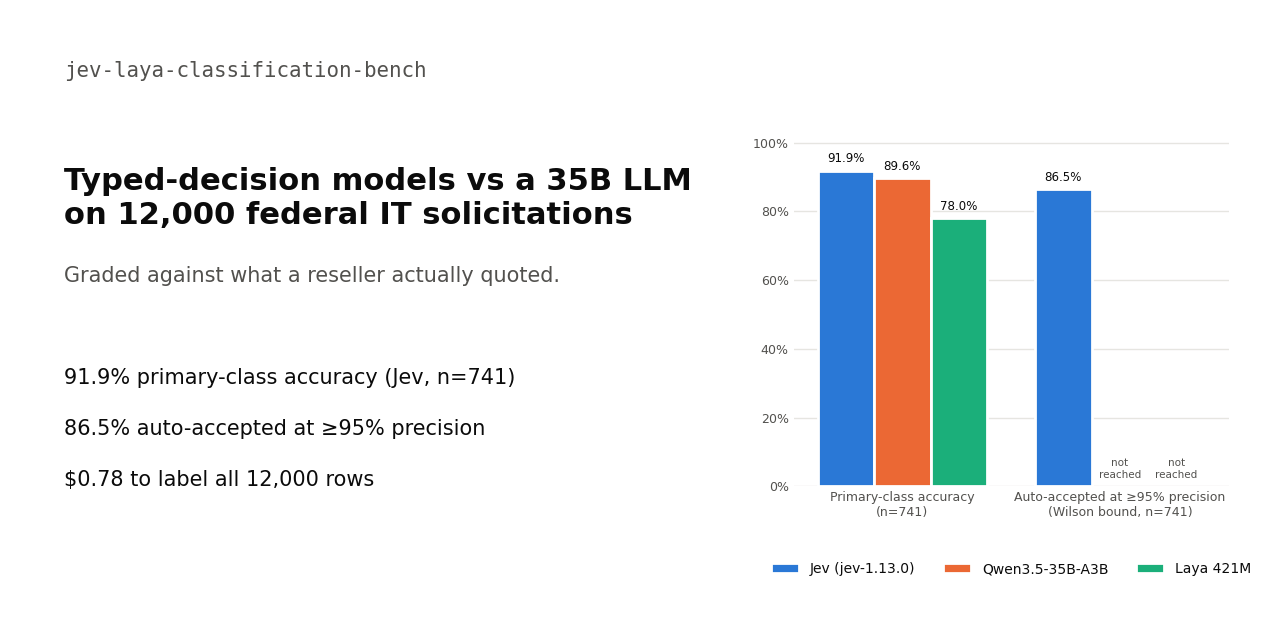
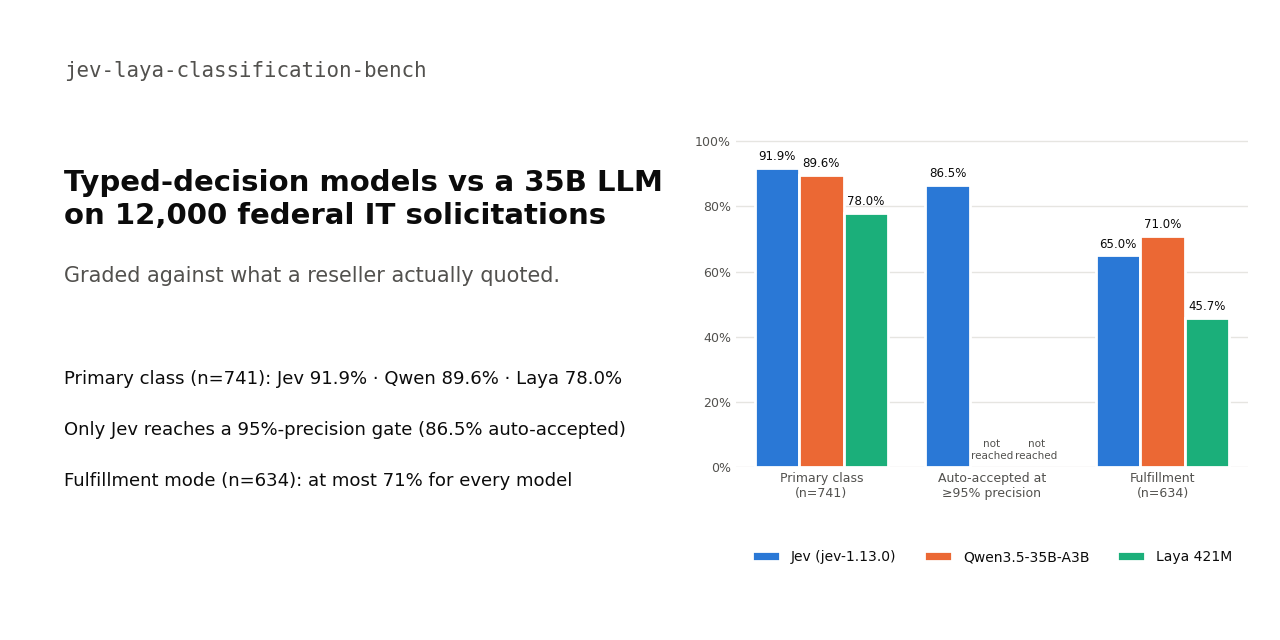
docs: correct Wilson-cutoff, flag-rate and agreement wording; balanced social card; drop HF configs glob

diff --git a/figures/make_figures.py b/figures/make_figures.py
@@ -26,7 +26,6 @@ CLASSES = ["Hardware", "Software", "Maintenance & Support", "Services",
            "Installation & Integration", "Furniture / Facilities", "Other"]
 SHORT = ["Hardware", "Software", "Maint. & Support", "Services", "Install. & Integ.", "Furniture", "Other"]
 MIN_CURVE_N = 20         # curve points below this many accepted rows are noise (Laya's first point is n=1)
-JEV_COST_12K = "$0.78"   # results/e5-cost.md: Jev list price for all 12,000 rows
 THEMES = {
     "light": {"surface": "#ffffff", "text": "#0b0b0b", "muted": "#52514e", "grid": "#e6e5e1",
               "jev": "#2a78d6", "qwen": "#eb6834", "laya": "#1baf7a",
@@ -250,21 +249,23 @@ def gate(t, e2, e1):
 
 def social_preview(e2, out):
     t = THEMES["light"]
-    v = hero_values(e2)["jev"]
-    n = paired(e2, "jev", "primary_vs_quote_gold")["n"]
+    v = hero_values(e2)
+    n_p = paired(e2, "jev", "primary_vs_quote_gold")["n"]
+    n_f = paired(e2, "jev", "fulfillment_vs_quote_gold")["n"]
     fig = plt.figure(figsize=(12.8, 6.4), dpi=100, facecolor=t["surface"])
     fig.text(0.05, 0.88, "jev-laya-classification-bench", fontsize=15, color=t["muted"], family="monospace")
     fig.text(0.05, 0.64, "Typed-decision models vs a 35B LLM\non 12,000 federal IT solicitations",
-             fontsize=22, fontweight="bold", color=t["text"], va="bottom", linespacing=1.25)
+             fontsize=21, fontweight="bold", color=t["text"], va="bottom", linespacing=1.25)
     fig.text(0.05, 0.56, "Graded against what a reseller actually quoted.", fontsize=15, color=t["muted"])
-    for i, line in enumerate([f"{v[0]:.1%} primary-class accuracy (Jev, n={n})",
-                              f"{v[1]:.1%} auto-accepted at ≥95% precision",
-                              f"{JEV_COST_12K} to label all 12,000 rows"]):
-        fig.text(0.05, 0.40 - i * 0.08, line, fontsize=15, color=t["text"])
-    ax = fig.add_axes([0.62, 0.24, 0.34, 0.58])
-    draw_hero(ax, t, e2, groups=2)
+    for i, line in enumerate([f"Primary class (n={n_p}): Jev {v['jev'][0]:.1%} · Qwen {v['qwen'][0]:.1%} · Laya {v['laya'][0]:.1%}",
+                              f"Only Jev reaches a 95%-precision gate ({v['jev'][1]:.1%} auto-accepted)",
+                              f"Fulfillment mode (n={n_f}): at most {max(x[2] for x in v.values()):.0%} for every model"]):
+        fig.text(0.05, 0.40 - i * 0.08, line, fontsize=13, color=t["text"])
+    ax = fig.add_axes([0.575, 0.27, 0.40, 0.55])
+    draw_hero(ax, t, e2)
+    ax.set_xticks(range(3), [f"Primary class\n(n={n_p})", "Auto-accepted at\n≥95% precision", f"Fulfillment\n(n={n_f})"])
     ax.legend(frameon=False, labelcolor=t["text"], fontsize=10, loc="upper center",
-              bbox_to_anchor=(0.5, -0.17), ncol=3)
+              bbox_to_anchor=(0.5, -0.2), ncol=3)
     path = Path(out) / "social_preview.png"
     fig.savefig(path, dpi=100, facecolor=t["surface"])
     plt.close(fig)

diff --git a/README.md b/README.md
@@ -42,10 +42,10 @@ Every number: [`results/e2-full/metrics.json`](results/e2-full/metrics.json), ke
 
 <picture>
   <source media="(prefers-color-scheme: dark)" srcset="docs/figures/precision_coverage-dark.png">
-  <img alt="Precision versus coverage curves. Jev stays above the 95% precision line up to 86.5% coverage at cutoff 0.94. Qwen's three confidence buckets sit near 90%. Laya stays below 95% at every depth." src="docs/figures/precision_coverage-light.png">
+  <img alt="Precision versus coverage curves. Jev's Wilson lower bound stays at or above 95% from cutoff 1.0 down to 0.94, where 86.5% of rows are auto-accepted. Qwen's three confidence buckets sit near 90%. Laya's Wilson bound never reaches 95%." src="docs/figures/precision_coverage-light.png">
 </picture>
 
-Jev's confidence is calibrated (ECE 0.049). At a cutoff of 0.94 it accepts 86.5% of rows with observed precision 96.7%, and the Wilson 95% lower bound stays above 95% along the whole curve. Qwen reports three confidence levels by prompt design; its "high" bucket covers 97.8% of rows at 90.1% precision, so no bucket reaches 95%. Laya's precision never clears the bound at any depth.
+Jev's confidence is calibrated (ECE 0.049). At a cutoff of 0.94 it accepts 86.5% of rows with observed precision 96.7%, and the Wilson 95% lower bound stays at or above 95% at every cutoff from 1.0 down to 0.94. Qwen reports three confidence levels by prompt design; its "high" bucket covers 97.8% of rows at 90.1% precision, so no bucket reaches 95%. Laya's precision never clears the bound at any depth.
 
 ### 2. Prompt variants did not move accuracy
 
@@ -69,10 +69,10 @@ Telling distributor catalog SKUs ("à la carte") from OEM-configured builds tops
 
 <picture>
   <source media="(prefers-color-scheme: dark)" srcset="docs/figures/agreement-dark.png">
-  <img alt="Confusion matrix of Jev versus Qwen primary class over 11,931 rows. Most mass is on the diagonal. The largest off-diagonal cells are Jev Hardware versus Qwen Other (155), Jev Software versus Qwen Maintenance and Support (80), and Jev Maintenance and Support versus Qwen Software (107)." src="docs/figures/agreement-light.png">
+  <img alt="Confusion matrix of Jev versus Qwen primary class over 11,931 rows. Most mass is on the diagonal. The largest off-diagonal cells are Jev Hardware versus Qwen Other (155), Jev Hardware versus Qwen Software (113) and Jev Maintenance and Support versus Qwen Software (107)." src="docs/figures/agreement-light.png">
 </picture>
 
-The disagreements cluster in three places: Hardware vs Other (Qwen calls "IT equipment per attached BOM" Other), Software vs Maintenance & Support in both directions, and Services vs Software or Other. Those 1,068 rows are the pool for blind human adjudication.
+The disagreements cluster in four places: Hardware vs Other (Qwen calls "IT equipment per attached BOM" Other), Hardware vs Software, Software vs Maintenance & Support in both directions, and Services vs Software or Other. Those 1,068 rows are the pool for blind human adjudication.
 
 ### 5. One queueing rule decides how much gets automated
 
@@ -81,7 +81,7 @@ The disagreements cluster in three places: Hardware vs Other (Qwen calls "IT equ
   <img alt="Gate simulation on 12,000 rows. Flags recorded but not queued: 91.9% auto-accepted at 93.8% primary precision. Spec rule where any flag sends the row to review: 26.6% auto-accepted at 93.5% primary precision." src="docs/figures/gate-light.png">
 </picture>
 
-The design spec sent any row with a raised flag to human review. The `brand_name_only` flag fires on 54% of rows (Jev), so that rule automates 26.6% of volume. Recording flags as attributes instead automates 91.9% at the same primary precision (93.8% vs 93.5% on scored rows), and the review queue fills with genuine model disagreements instead.
+The design spec sent any row with a raised flag to human review. The `brand_name_only` flag fires on 54% of rows (Jev), so that rule automates 26.6% of volume. Recording flags as attributes instead automates 91.9% at the same primary precision (93.8%, n=721, vs 93.5%, n=214 scored rows), and the review queue fills with genuine model disagreements instead.
 
 ## Cost and latency
 
@@ -99,8 +99,8 @@ Laya ran with shipped defaults: single row, default config, no threshold tuning,
 
 Observed, with evidence in [report section 9.4](docs/reports/2026-09-24-classification-experiments-report.md#94-laya-in-depth):
 
-- **Presence questions over-fire.** Laya emits 4.05 components per row against 1.95 for Jev; its three flag questions fire on 49% to 71% of rows where the discovery run found true RFI rates of 2% to 3%.
-- **Accuracy drops before the window fills.** 81.5% on states under 600 characters, 65.8% at 600 to 1,200 characters (roughly 150 to 300 tokens), inside the 512-token window.
+- **Presence questions over-fire.** Laya emits 4.05 components per row against 1.95 for Jev; its `rfi_market_research` and `text_insufficient` flags fire on 63% and 71% of rows (Jev 13% and 15%), where the discovery run found true RFI rates of 2% to 3%. Its `brand_name_only` rate (49%) is in line with the discovery run.
+- **Accuracy drops before the window fills.** 81.5% on states under 600 characters (n=519), 65.8% at 600 to 1,200 characters (n=117, roughly 150 to 300 tokens), inside the 512-token window. Longer states recover partly (72.9%, n=59; 74.0%, n=50); Jev and Qwen show no comparable drop.
 - **Class definitions are silently truncated.** The sequence packer caps the question head at 192 tokens. With seven options, each class definition is cut to 25 tokens, which drops the text that separates hardware from software.
 
 Hypotheses, none tested yet:

diff --git a/docs/reports/2026-09-24-classification-experiments-report.md b/docs/reports/2026-09-24-classification-experiments-report.md
@@ -36,7 +36,7 @@ Ground truth for the top-level class came from the reseller's own quotes: when a
 Findings that matter:
 
 1. **Jev beats the 35B LLM by 2.3 points on the top-level class and is the only source whose confidence supports an auto-accept gate.** At a 0.94 cutoff it accepts 86.5 percent of rows at a Wilson-bounded 95 percent precision (observed 96.7 percent).
-2. **All nine Jev question and state-text variants land within four rows of each other (0.912 to 0.919 on 741).** Adding line items, adding a 1,500-character attachment excerpt, hierarchical questions, or a 12-way subclass choice changed nothing measurable. The cheapest adequate variant (A-S2) won on the pre-registered tie-break.
+2. **All nine Jev question and state-text variants land within five rows of each other (0.912 to 0.919 on 741).** Adding line items, adding a 1,500-character attachment excerpt, hierarchical questions, or a 12-way subclass choice changed nothing measurable. The cheapest adequate variant (A-S2) won on the pre-registered tie-break.
 3. **Fulfillment mode is the weak spot for every model:** 0.65 (Jev), 0.71 (Qwen), 0.46 (Laya) against quote gold, with configured-build precision 0.25 to 0.36. The 90 percent target is far away. This is the question whose answer usually lives inside a BOM or configurator quote in an attachment, not in the notice text.
 4. **Laya, as shipped, is not competitive on this task at 0.78,** and its calibration is poor (ECE 0.32, median primary confidence 0.41). Section 9 analyzes why: over-firing presence questions (4.05 components per row vs 1.95 for Jev), flags firing on 63 to 71 percent of rows, length sensitivity that begins well before the 512-token window is full, and a head-budget rule in the sequence packer that truncates the class definitions the questions rely on. These are the concrete, reproducible items for a community contribution.
 5. **The `brand_name_only` flag fires on 54 percent of rows (Jev) and 39 percent (Qwen).** The spec's "always queue when any flag is true" rule would cut auto-accept coverage from 92 percent to 27 percent for no precision gain. That flag should become an attribute, not a queue trigger.
@@ -325,7 +325,7 @@ Each Jev run took about 93 seconds at the 10 req/s cap. Jev input tokens barely 
 | A-S2 | Laya | 0.7800 | 0.322 | 705 | none | none | 0.457 | 0.113 | 0.687 / 0.763 / 0.563 |
 | v2 | Qwen | 0.8961 | n/a | 3 | none | none | 0.710 | 0.716 | 0.127 / 0.131 / 0.385 |
 
-**Winner: A-S2.** Three-way tie at 0.9190 (681 of 741) between A-S2, C-S2 and C-S3; A-S2 has the highest coverage at cutoff (0.865 vs 0.850 and 0.846). The full spread across nine variants is 676 to 681 correct rows: four rows.
+**Winner: A-S2.** Three-way tie at 0.9190 (681 of 741) between A-S2, C-S2 and C-S3; A-S2 has the highest coverage at cutoff (0.865 vs 0.850 and 0.846). The full spread across nine variants is 676 to 681 correct rows: five rows.
 
 Per-class precision / recall for Jev by variant (support: Hardware 568, Software 135, Maintenance & Support 32, Services 6):
 
@@ -425,7 +425,7 @@ Jev, selected cutoffs:
 
 <picture>
   <source media="(prefers-color-scheme: dark)" srcset="../figures/precision_coverage-dark.png">
-  <img alt="Precision versus coverage curves. Jev stays above the 95% precision line up to 86.5% coverage at cutoff 0.94. Qwen's three confidence buckets sit near 90%. Laya stays below 95% at every depth." src="../figures/precision_coverage-light.png">
+  <img alt="Precision versus coverage curves. Jev's Wilson lower bound stays at or above 95% from cutoff 1.0 down to 0.94, where 86.5% of rows are auto-accepted. Qwen's three confidence buckets sit near 90%. Laya's Wilson bound never reaches 95%." src="../figures/precision_coverage-light.png">
 </picture>
 
 0.94 is the deepest cutoff whose Wilson lower bound stays above 0.95 along the whole envelope. Jev sets confidence exactly 1.0 on 59.5 percent of all 12,000 rows and at least 0.94 on 77.7 percent; median 1.0, p10 0.72.
@@ -541,7 +541,7 @@ Rows are Jev's primary class, columns Qwen's mapped primary class:
 
 <picture>
   <source media="(prefers-color-scheme: dark)" srcset="../figures/agreement-dark.png">
-  <img alt="Confusion matrix of Jev versus Qwen primary class over 11,931 rows. Most mass is on the diagonal. The largest off-diagonal cells are Jev Hardware versus Qwen Other (155), Jev Software versus Qwen Maintenance and Support (80), and Jev Maintenance and Support versus Qwen Software (107)." src="../figures/agreement-light.png">
+  <img alt="Confusion matrix of Jev versus Qwen primary class over 11,931 rows. Most mass is on the diagonal. The largest off-diagonal cells are Jev Hardware versus Qwen Other (155), Jev Hardware versus Qwen Software (113) and Jev Maintenance and Support versus Qwen Software (107)." src="../figures/agreement-light.png">
 </picture>
 
 Agreement 91.0 percent (10,863 of 11,931). The disagreement mass is Hardware vs Other (Qwen calls "IT equipment per attached BOM" Other; Jev calls it Hardware), Support vs Software (both directions), and Services vs Software/Other. These 1,068 disagreements are the E3 pool; 300 of them go to blind human adjudication.

diff --git a/docs/HF_CARD.md b/docs/HF_CARD.md
@@ -14,9 +14,6 @@ tags:
   - qwen
 size_categories:
   - n<1K
-configs:
-  - config_name: default
-    data_files: "results/**/metrics.json"
 ---
 
 # Jev / Laya / Qwen classification bench results
